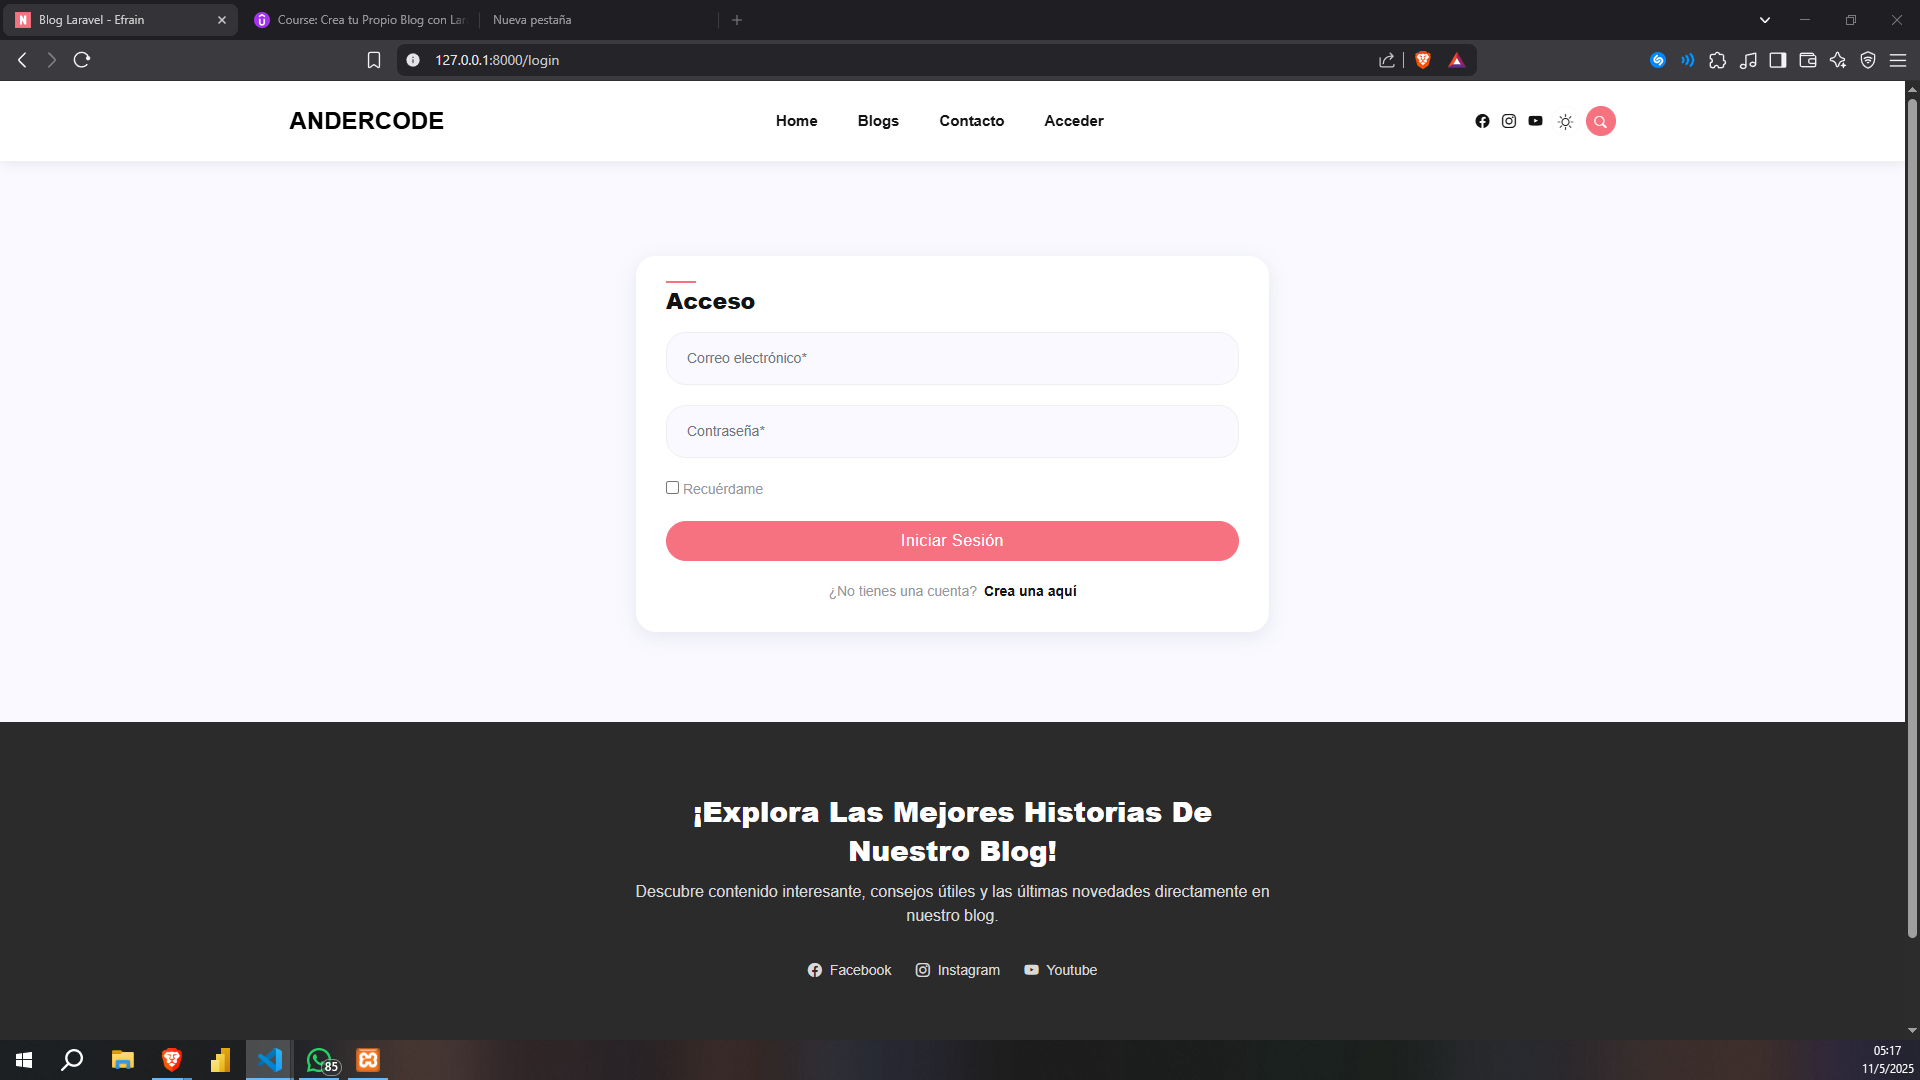
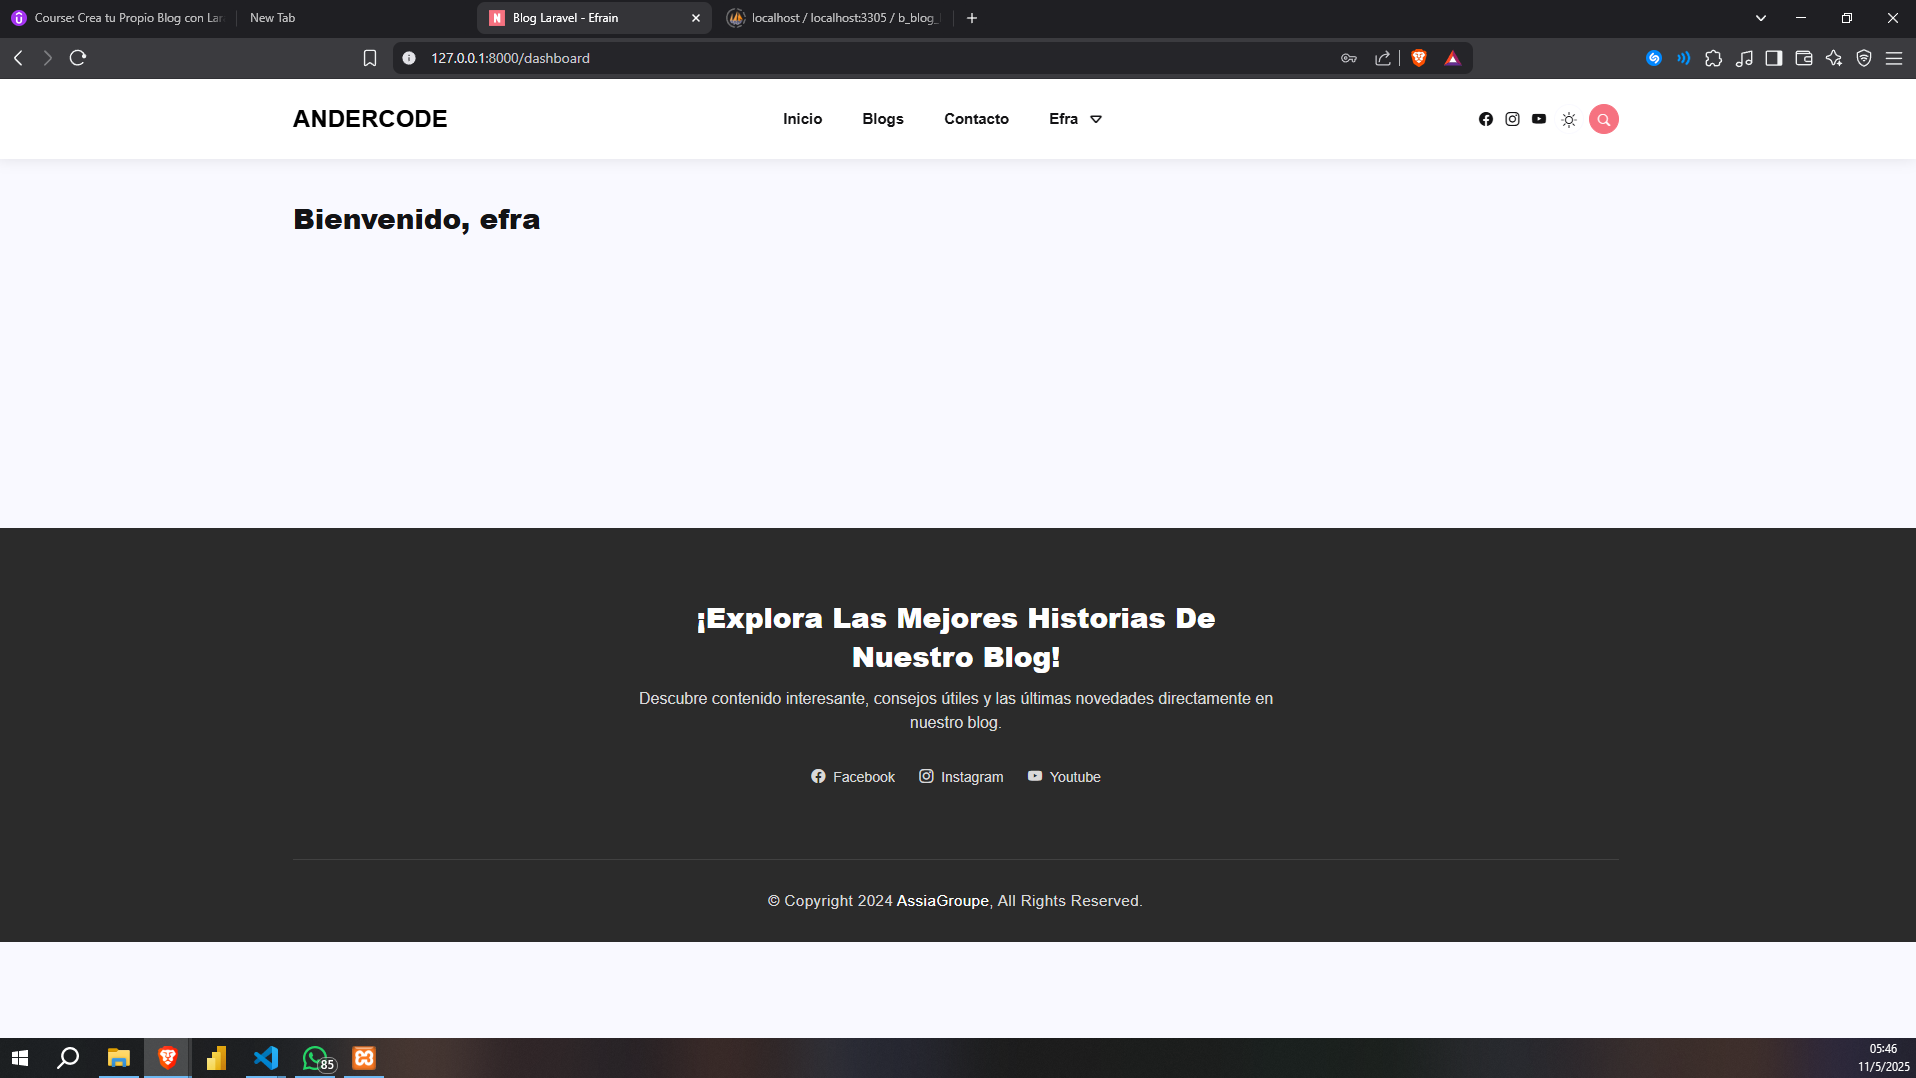
Se agrega la interfaz del template en el proyecto

diff --git a/resources/views/dashboard.blade.php b/resources/views/dashboard.blade.php
@@ -1,17 +1,32 @@
-<x-app-layout>
-    <x-slot name="header">
-        <h2 class="font-semibold text-xl text-gray-800 dark:text-gray-200 leading-tight">
-            {{ __('Dashboard') }}
-        </h2>
-    </x-slot>
+@extends('layouts.base')
 
-    <div class="py-12">
-        <div class="max-w-7xl mx-auto sm:px-6 lg:px-8">
-            <div class="bg-white dark:bg-gray-800 overflow-hidden shadow-sm sm:rounded-lg">
-                <div class="p-6 text-gray-900 dark:text-gray-100">
-                    {{ __("You're logged in!") }}
+@section('title', 'Blog - Andercode')
+
+@section('content')
+
+    <section class="banner">
+        <div class="container-fluid">
+            <div class="row">
+                <div class="col-lg-8">
+                    <div class="banner__content ">
+                        <h3 class="banner__title">Bienvenido, {{ auth()->user()->name }}</h3>
+                        <p class="banner__subtitle"> {{ auth()->user()->descripcion }}
+                        </p>
+                        <br/>
+                        <br/>
+                        <br/>
+                        <br/>
+                        <br/>
+                        <br/>
+                        <br/>
+                        <br/>
+                        <br/>
+                        <br/>
+                    </div>
                 </div>
             </div>
         </div>
-    </div>
-</x-app-layout>
+    </section>
+    @include('partials.newlettre')
+@endsection
+

diff --git a/resources/views/partials/header.blade.php b/resources/views/partials/header.blade.php
@@ -30,8 +30,8 @@
                                 <li class="nav-item dropdown">
                                     <a class="nav-link dropdown-toggle" href="javascript:void(0)" id="navbarDropdown3" role="button" data-bs-toggle="dropdown" aria-expanded="false"> {{ auth()->user()->name }} </a>
                                     <ul class="dropdown-menu">
-                                        <li><a class="dropdown-item" href="{{ route('posts.list') }}">Mis Publicaciones</a></li>
-                                        <li><a class="dropdown-item" href="{{ route('profile.edit') }}">Perfil</a></li>
+                                        <li><a class="dropdown-item" href="#">Mis Publicaciones</a></li>
+                                        <li><a class="dropdown-item" href="#}">Perfil</a></li>
                                         <li>
                                             <form id="logout-form" action="{{ route('logout') }}" method="POST" class="d-none">
                                                 @csrf
